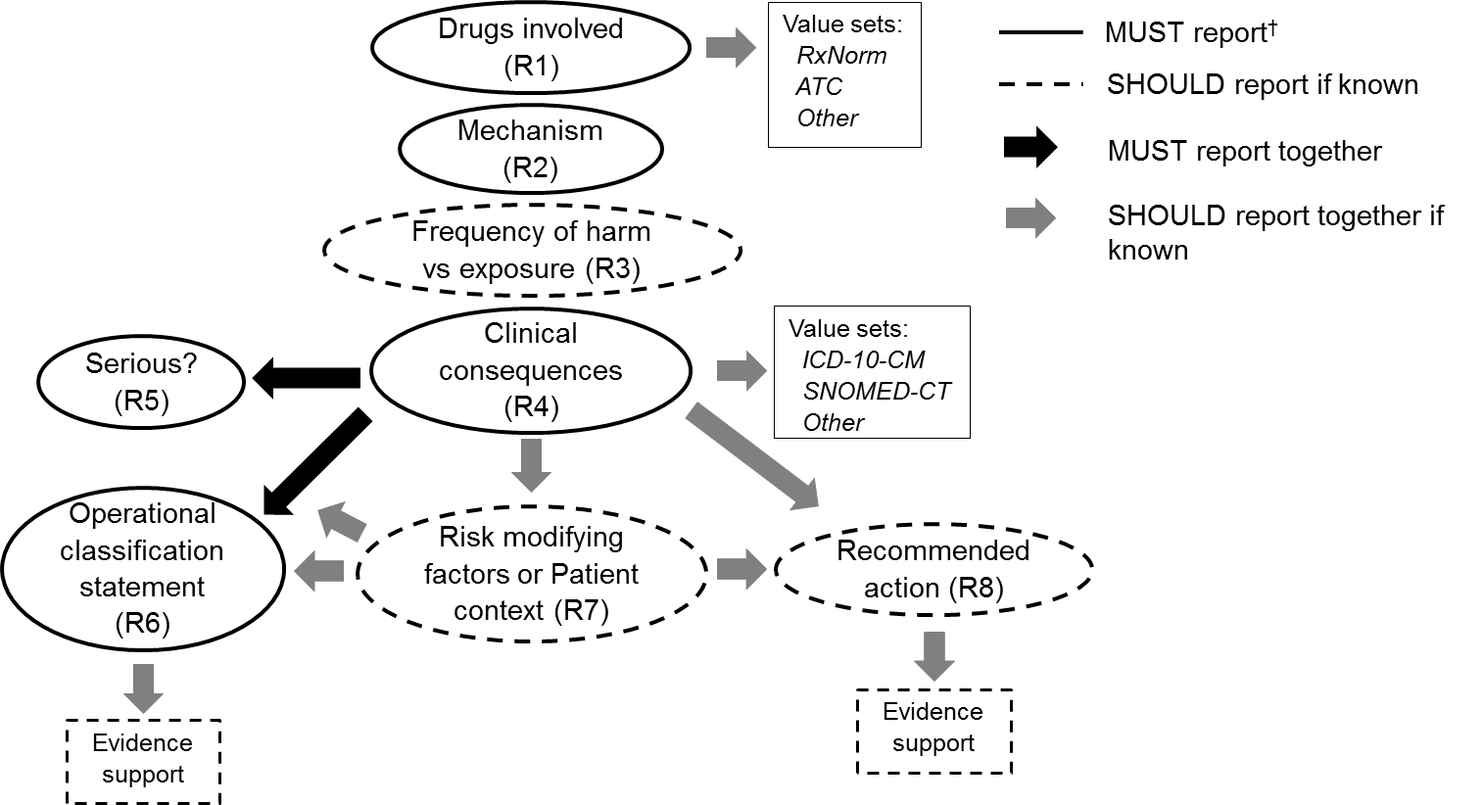
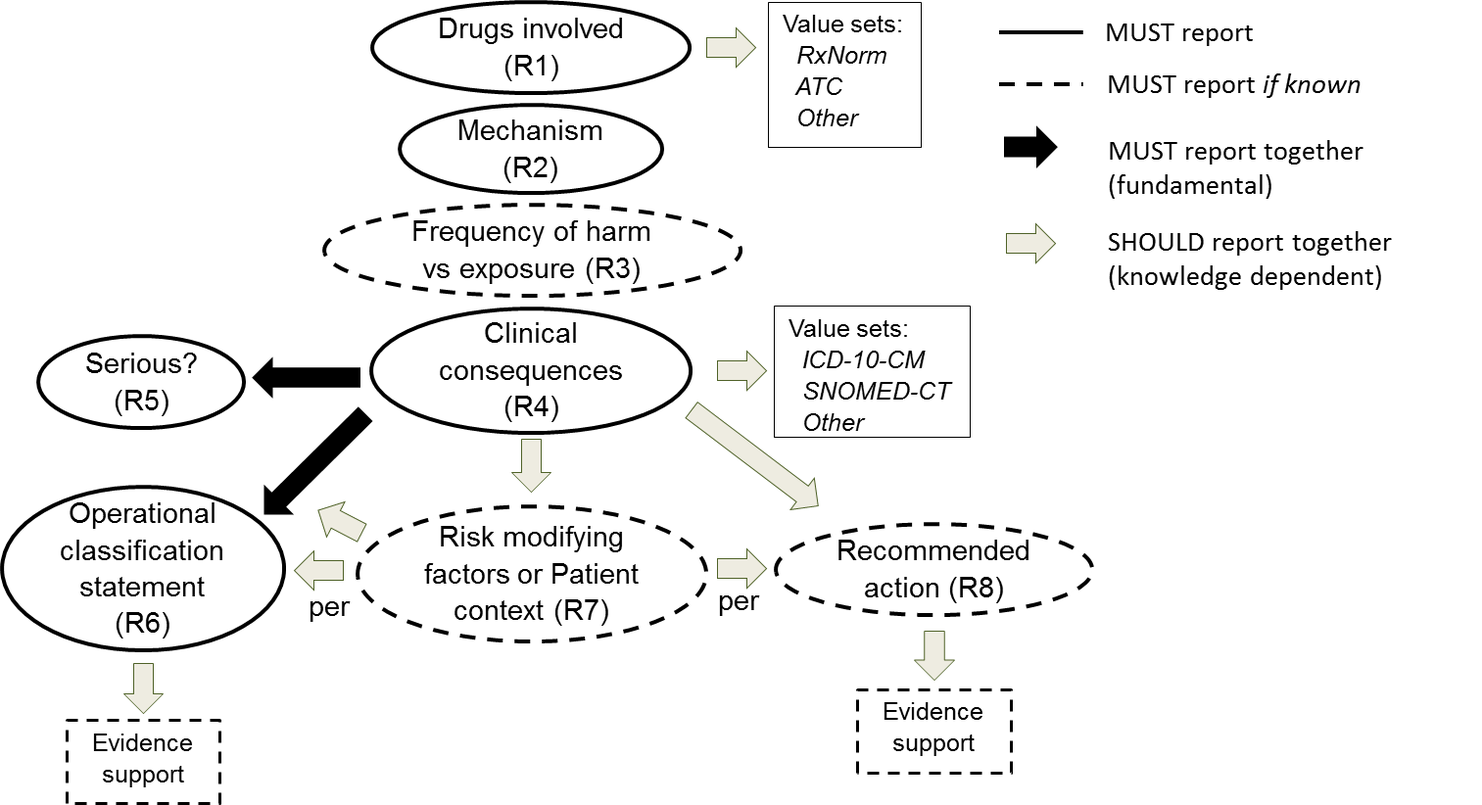
addressing comments on the penultimate draft

diff --git a/index.html b/index.html
@@ -1211,19 +1211,19 @@
   <h2>A summary of recommendations related to the minimum information model</h2>
 
   <p>
-    This section summarizes the Community Group's recommendations related to the minimum information model. <a href="#PDDI-MI-APPLICATIONS"></a> shows an overview of the recommendations and how they related to one another. A brief summary of each recommendation is provided below the figure. Each recommendation summary uses capitalized keywords (MUST, MUST NOT, REQUIRED, SHALL, SHALL NOT, SHOULD, SHOULD NOT, RECOMMENDED, MAY, AND OPTIONAL) defined in RFC 2119 [[RFC2119]]. Two examples of applying the recommendations to PDDIs are provided in <a href="#examples"></a>.  
+    This section summarizes the Community Group's recommendations related to the minimum information model. <a href="#recommended-approaches"></a> shows an overview of the recommendations and how they related to one another. A brief summary of each recommendation is provided below the figure. Each recommendation summary uses capitalized keywords (MUST, MUST NOT, REQUIRED, SHALL, SHALL NOT, SHOULD, SHOULD NOT, RECOMMENDED, MAY, AND OPTIONAL) defined in RFC 2119 [[RFC2119]]. Two examples of applying the recommendations to PDDIs are provided in <a href="#examples"></a>.  
   </p>
 
   <figure id="recommended-approaches">
       <img src="W3C-Images/recommendations-overview.png"
 	   width"1152">
-      <figcaption>An visual overview of the 8 recommendations that are labeled R1 to R8 in the paragraphs below. Note that the bubbles are ordered for simpler visual presentation and not meant to suggest an editorial workflow. The figure indicates strong recommendations using bubbles with solid lines and optional recommendations using bubbles with dashed lines. Boxes indicate entities discussed in the recommendations such as value sets and evidence support. Arrows indicate relationships between information items and entities discussed in the recommendations. Black arrows indicate information items or entities that MUST be reported together while gray arrows indicate items or entities that SHOULD be reported together if known.  &#8224; If the PDDI mechanism is not known, state "not known".
+      <figcaption>An visual overview of the 8 recommendations that are labeled R1 to R8 in the paragraphs below. Note that the bubbles are ordered for simpler visual presentation and not meant to suggest an editorial workflow. The figure indicates fundamental recommendations using bubbles with solid lines and knowledge dependent recommendations using bubbles with dashed lines. Boxes indicate entities discussed in the recommendations such as value sets and evidence support. Arrows indicate relationships between information items and entities discussed in the recommendations. Black arrows indicate fundamental information items or entities that MUST be reported together while gray arrows indicate items or entities that SHOULD be reported together if known.  &#8224; If the PDDI mechanism is not known, state "not known".
     </figure>
 
 
   <div class="issue" data-number="42" title="Discuss implications and alternatives of referring to drugs involved comprehensively rather than specifically">
   <div class="practice" id="bp-drugs-involved">
-    <b><i>R1 - Explicitly state the drugs involved:</b></i> The <a>drugs involved</a> in a PDDI MUST be explicitly stated. To reduce ambiguity and support a computable representation of the PDDI, the drugs involved SHOULD be listed as sets of terms from a terminology such as <a href="https://www.nlm.nih.gov/research/umls/rxnorm/" target="new">RxNorm</a> or the <a href="https://www.whocc.no/atc/structure_and_principles/" target="new">Anatomical Therapeutic Chemical Classification System (ATC)</a>. Such so called <i>value sets</i> MAY be referenced by a <i>drug concept set identifier</i> (<a target="new" href="http://purl.obolibrary.org/obo/DIDEO_00000128">http://purl.obolibrary.org/obo/DIDEO_00000128</a>) such as a URI to a public repository such as the <a href="https://vsac.nlm.nih.gov/" target="new">Value Set Authority Center</a> that is maintained by the <a href="https://www.nlm.nih.gov/" target="new">United States National Library of Medicine</a>. The implementer MAY choose any terminology they think appropriate. To promote broader accessibility to PDDI knowledge, it is RECOMMENDED that the chosen terminology be one that is actively maintained and freely accessible to the public.
+    <b><i>R1 - Explicitly state the drugs involved:</b></i> The <a>drugs involved</a> in a PDDI MUST be explicitly stated. To reduce ambiguity and support a computable representation of the PDDI, the drugs involved SHOULD be listed as sets of terms from a terminology such as <a href="https://www.nlm.nih.gov/research/umls/rxnorm/" target="new">RxNorm</a> or the <a href="https://www.whocc.no/atc/structure_and_principles/" target="new">Anatomical Therapeutic Chemical Classification System (ATC)</a>. Such so called <i>value sets</i> MAY be referenced by a <i>drug concept set identifier</i> (<a target="new" href="http://purl.obolibrary.org/obo/DIDEO_00000128">http://purl.obolibrary.org/obo/DIDEO_00000128</a>) such as a URI to a public repository such as the <a href="https://vsac.nlm.nih.gov/" target="new">Value Set Authority Center</a> that is maintained by the <a href="https://www.nlm.nih.gov/" target="new">United States National Library of Medicine</a>. The implementer MAY choose any terminology they think appropriate. To promote broader accessibility to PDDI knowledge, the implementer SHOULD use a terminology that is actively maintained and freely accessible to the public.
   </div>
   </div>
     
@@ -1232,12 +1232,12 @@
   </div>
 
   <div class="practice" id="bp-freq-exp">
-    <b><i>R3 - State the frequency of harm relative to frequency of exposure if known:</b></i> Information about the <a>frequency of harm</a> of exposure to a PDDI relative to <a>frequency of exposure</a> and is rarely available. If such information is available, it can help a clinician assess the risk/benefit trade-off of exposure to PDDI. Therefore, such information SHOULD be provided if available and considered reliable. It is RECOMMENDED that, wherever possible, each frequency of harm and frequency of exposure datum refer to a specific source in the form of a citation. If such information is not available, it is RECOMMENDED that an explicit statement declaring this fact be provided.
+    <b><i>R3 - State the frequency of harm relative to frequency of exposure if known:</b></i> Information about the <a>frequency of harm</a> of exposure to a PDDI relative to <a>frequency of exposure</a> and is rarely available. If such information is available, it can help a clinician assess the risk/benefit trade-off of exposure to PDDI. Therefore, if such information is not available, an explicit statement declaring this fact MUST be provided. However, if such information is available and considered reliable, it MUST be provided. Wherever possible, each frequency of harm and frequency of exposure datum SHOULD refer to a specific source in the form of a citation. 
   </div>
 
   
   <div class="practice" id="bp-clinical-consequences">
-    <b><i>R4 - Explicitly state clinical consequences:</b></i> The <a>clinical consequences</a> associated with a PDDI MUST be reported if known. Clinical consequences SHOULD refer health outcomes as specifically as possible. To reduce ambiguity and support a computable representation of the PDDI, clinical consequences SHOULD be represented as one or more sets of terms from a terminology such as <a href="http://www.who.int/classifications/icd/en/" target="new">ICD-10</a> or <a href="https://www.snomed.org/snomed-ct" target="new">SNOMED-CT</a>. Such so called <i>value sets</i> MAY be referenced by a URI to a public repository such as the <a href="https://vsac.nlm.nih.gov/" target="new">Value Set Authority Center</a> that is maintained by the <a href="https://www.nlm.nih.gov/" target="new">United States National Library of Medicine</a>. The implementer MAY choose any terminology they think appropriate. To promote broader accessibility to PDDI knowledge, it is RECOMMENDED that the chosen terminology be one that is actively maintained and freely accessible to the public. 
+    <b><i>R4 - Explicitly state clinical consequences:</b></i> The <a>clinical consequences</a> associated with a PDDI MUST be reported if known. Clinical consequences MUST refer health outcomes as specifically as possible. To reduce ambiguity and support a computable representation of the PDDI, clinical consequences SHOULD be represented as one or more sets of terms from a terminology such as <a href="http://www.who.int/classifications/icd/en/" target="new">ICD-10</a> or <a href="https://www.snomed.org/snomed-ct" target="new">SNOMED-CT</a>. Such so called <i>value sets</i> MAY be referenced by a URI to a public repository such as the <a href="https://vsac.nlm.nih.gov/" target="new">Value Set Authority Center</a> that is maintained by the <a href="https://www.nlm.nih.gov/" target="new">United States National Library of Medicine</a>. The implementer MAY choose any terminology they think appropriate. To promote broader accessibility to PDDI knowledge, the implementer SHOULD use a terminology that is actively maintained and freely accessible to the public. 
   </div>
 
   <div class="practice" id="bp-serious">
@@ -1245,21 +1245,17 @@
   </div>
 
   <div class="practice" id="bp-operational-classification">
-    <b><i>R6 - Include an operational classification statement:</b></i> A PDDI MUST report at least one <a>operational classification statement</a>. The description MAY include one or more operational classification statements as long as each statement depends on a single set of <a>contextual information/modifying factors</a>. In this case, the  operational classification statements SHOULD be mentioned where the specific contextual information/modifying factors are discussed. While implementers MAY use any system that provides clear operational classification statements, the use of the OpeRational ClassificAtion of Drug Interactions [hansten-2001] is RECOMMENDED. 
+    <b><i>R6 - Include an operational classification statement:</b></i> A PDDI MUST report at least one <a>operational classification statement</a>. The description MAY include more than one operational classification statements as long as each statement depends on a single set of <a>contextual information/modifying factors</a>. If there is more than one operational classification statement, each operational classification statement MUST be mentioned along with the specific contextual information/modifying factor that applies to the situation. While implementers MAY use any system that provides clear operational classification statements, the use of the OpeRational ClassificAtion of Drug Interactions [hansten-2001] is RECOMMENDED. 
   </div>
 
 
   <div class="practice" id="bp-contextual">
     <b><i>R7 - State each known risk modifying factor or patient context:</b></i> <a>Contextual information/modifying factors</a> are necessary for alerts that
-    are both sensitive and specific. Like clinical consequences, each known factor SHOULD be
-    stated as specifically as possible. The factors SHOULD be amenable to implementation as executable
-    logic using value sets from clinical terminologies such as <a href="https://www.nlm.nih.gov/research/umls/rxnorm/" target="new">RxNorm</a>, the
-    <a href="https://www.whocc.no/atc/structure_and_principles/" target="new">Anatomical Therapeutic Chemical Classification System (ATC)</a>, <a href="http://www.who.int/classifications/icd/en/" target="new">ICD-10</a>, and <a href="https://www.snomed.org/snomed-ct" target="new">SNOMED-CT</a>. As is used in this
-    example, each factor SHOULD be related to a specific <a>operational classification statement</a> that is supported by the <a>evidence about a suspected drug-drug interaction</a>. It is RECOMMENDED that, wherever possible, each evidence statement refer to a specific source in the form of a citation.
+    are both sensitive and specific. Like clinical consequences, each known factor MUST be stated as specifically as possible. The factors SHOULD be amenable to implementation as executable logic using value sets from clinical terminologies such as <a href="https://www.nlm.nih.gov/research/umls/rxnorm/" target="new">RxNorm</a>, the <a href="https://www.whocc.no/atc/structure_and_principles/" target="new">Anatomical Therapeutic Chemical Classification System (ATC)</a>, <a href="http://www.who.int/classifications/icd/en/" target="new">ICD-10</a>, and <a href="https://www.snomed.org/snomed-ct" target="new">SNOMED-CT</a>. Each factor SHOULD be related to a specific <a>operational classification statement</a> that is supported by the <a>evidence about a suspected drug-drug interaction</a>. Wherever possible, each evidence statement SHOULD refer to a specific source in the form of a citation.
   </div>
 
   <div class="practice" id="bp-recommended-action">
-    <b><i>R8 - State a recommended action if one is known:</b></i> If known, a <a>recommended action</a> SHOULD be stated using clear and concise language. Any recommended actions that apply to all patient exposures SHOULD be stated using clear and concise language. It is RECOMMENDED that each recommended action statement provide citations to <a>evidence about a suspected drug-drug interaction</a> (not provided in this example). Recommendations that depend on specific <a>contextual information/modifying factors</a> SHOULD be mentioned so as to support a context-specific presentation of such information.
+    <b><i>R8 - State a recommended action if one is known:</b></i> If known, a <a>recommended action</a> MUST be stated. Any recommended actions that apply to all patient exposures MUST be stated. It is desirable that each recommended action is written in clear and concise language. Each recommended action statement SHOULD provide citations to <a>evidence about a suspected drug-drug interaction</a> (not provided in this example). Recommendations that depend on specific <a>contextual information/modifying factors</a> SHOULD be mentioned so as to support a context-specific presentation of such information.
   </div>
 
 
@@ -1405,7 +1401,8 @@
       </tr>
       <tr>
 	<td>
-	  <strong>Comment:</strong> Per the recommendation <a href="#bp-drugs-involved">R1 - Explicitly state the drugs involved</a>, value sets for warfarin and NSAIDs are explicitly enumerated. As Appendix <a href=#intro-to-value-sets></a> mentions, this <i>extensional definition</i> is one approach to declaring value sets. It is also possible to define an algorithm that, when executed by a machine (or interpreted by a human), yields a set of such elements. Such a <i>intensional definition</i> is also an acceptable approach to declaring the drugs involved. </td> 
+	  <strong>Comment:</strong> Per the recommendation <a href="#bp-drugs-involved">R1 - Explicitly state the drugs involved</a>, value sets for warfarin and NSAIDs are explicitly enumerated. This example states NSAIDs generally and then refers to specific NSAID formulations in Contextual information/modifying factors (since the interaction is only relevant for bioavailable forms). A reasonable alternative approach would have been to create two PDDI knowledge artifacts - one that refers to "warfarin - systemic NSAIDs", and the other referring to "warfarin - non-systemic NSAIDs." Also, this example explicitly lists the drugs involved. As Appendix <a href=#intro-to-value-sets></a> mentions, this <i>extensional definition</i> is one approach to declaring value sets. It is also possible to define an algorithm that, when executed by a machine (or interpreted by a human), yields a set of such elements. Such a <i>intensional definition</i> is also an acceptable approach to declaring the drugs involved. 
+	</td> 
       </tr>
     </table>
     <table>
@@ -1454,7 +1451,7 @@
 	<td style="background-color: #f4fff2"><a>Operational Classification Statement</a>: Depending on the patient context, there are different operational classification statements for the warfarin-NSAIDs PDDI. See the <a href="#warfarin-specific-context">contextual information/modifying factors for this interaction</a>.</td>
       </tr>
       <tr>
-	<td><strong>Comment:</strong> Per recommendation <a href="#bp-operational-classification">R6 - Include an operational classification statement</a>, the PDDI description includes one or more <a>operational classification statements</a>. Because there is multiple <a>contextual information/modifying factors</a>, no single general operational classification statement can be mentioned. Rather, an operational classification statement is provided for each factor. </td>
+	<td><strong>Comment:</strong> Per recommendation <a href="#bp-operational-classification">R6 - Include an operational classification statement</a>, the PDDI description includes more than one <a>operational classification statements</a>. Because there is multiple <a>contextual information/modifying factors</a>, no single general operational classification statement can be mentioned. Rather, an operational classification statement is provided for each factor. </td>
       </tr>
     </table>
 </div>
@@ -1463,22 +1460,19 @@
   <tr>
     <td style="background-color: #f4fff2"><a>Contextual information/modifying factors</a>:
       <ol>
-        <li>The <a href="#NSAIDS-drugs">NSAIDs</a> is <a href="#topical-diclof">topical diclofenac</a></li>
+        <li>The <a href="#NSAIDS-drugs">NSAID</a> is <a href="#topical-diclof">topical or opthalmic diclofenac</a></li>
         <ul>
           <li><strong>Operational Classification Statement:</strong> No special precautions</li>
-          <li><strong>Evidence About a Suspected Drug-Drug Interaction:</strong> <a href="#topical-diclof">Topical diclofenac</a> has relatively
-	    low systemic absorption; in one study a topical gel (16 g/day) produced about 6% of
-	    the absorption seen with systemic administration of 150 mg/day. A higher than recommended
-	    dose of topical gel (48 g/day) produced 20% of a systemic dose of diclofenac.</li>
+          <li><strong>Evidence About a Suspected Drug-Drug Interaction:</strong> <a href="#topical-diclof">Both topical and opthalmic formulations of diclofenac</a> have relatively low systemic absorption; in one study a topical gel (16 g/day) produced about 6% of the absorption seen with systemic administration of 150 mg/day. A higher than recommended dose of topical gel (48 g/day) produced 20% of a systemic dose of diclofenac. The UK Summary of Product Characteristics for Voltarol Ophtha Multidose Eye Drops states, "No measurable levels of diclofenac could be found in humans after ocular application of diclofenac sodium eye drops". The FDA-approved SPL for Diclofenac Sodium Ophthalmic Solution 0.1% states, "Results from a bioavailability study established that plasma levels of diclofenac following ocular instillation of two drops of Diclofenac sodium ophthalmic solution, 0.1% to each eye were below the limit of quantification (10 ng/mL) over a 4-hour period. This study suggests that limited, if any, systemic absorption occurs with Diclofenac sodium ophthalmic solution". </li>
         </ul>
 	<div class="issue" data-number="41" title="Consider modifying the 'NOT topical diclofenac' to include opthalmic formulations">
-        <li>The NSAID is NOT <a href="#topical-diclof">topical diclofenac</a> but the patient is concomitantly taking a
+        <li>The NSAID is NEITHER <a href="#topical-diclof">topical nor opthalmic diclofenac</a> but the patient is concomitantly taking a
           <a href="#proton-pump-inhibitor">proton pump inhibitor</a> or <a href="#misoprostol">misoprostol</a></li>
         <ul>
           <li><strong>Operational Classification Statement:</strong> Assess risk and take action if necessary</li>
           <li><strong>Evidence About a Suspected Drug-Drug Interaction:</strong> <a href="#proton-pump-inhibitor">Proton pump inhibitors</a> and <a href="#misoprostol">misoprostol</a> may reduce the risk of UGIB in patients receiving NSAIDs and warfarin. </li>
         </ul>
-        <li>The NSAID is NOT <a href="#topical-diclof">topical diclofenac</a>, the patient is NOT concomitantly taking a <a href="#proton-pump-inhibitor">proton pump inhibitor</a> or <a href="#misoprostol">misoprostol</a>, and the patient has one or more of the following risk factors:</li>
+        <li>The NSAID is NEITHER <a href="#topical-diclof">topical nor opthalmic diclofenac</a>, the patient is NOT concomitantly taking a <a href="#proton-pump-inhibitor">proton pump inhibitor</a> or <a href="#misoprostol">misoprostol</a>, and the patient has one or more of the following risk factors:</li>
         <ul>
           <li>History of <a href="#gi-bleeding">upper gastrointestinal bleeding (UGIB) or peptic ulcer</a> or age > 65 years old</li>
       <ul>
@@ -1531,7 +1525,7 @@
       <td style="background-color: #f4fff2"><emph>Drugs involved</emph>: <a href="#TKIs">Tyrosine Kinase Inhibitors (TKIs)</a> and <a href="#proton-pump-inhibitor-atc">Proton Pump Inhibitors (PPIs)</a></td>
     </tr>
     <tr>
-      <td><strong>Comment:</strong> Per the recommendation <a href="#bp-drugs-involved">R1 - Explicitly state the drugs involved</a>, value sets for TKIs and PPIs are provided. Note that in the <a href="#ex-warfarin-nsaids">warfarin-NSAIDs example</a> the drugs involved are specified using RxNorm while this example uses ATC. This is to emphasize that, while the drugs involved SHOULD be listed as sets of terms from a terminology such as <a href="https://www.nlm.nih.gov/research/umls/rxnorm/" target="new">RxNorm</a> or the <a href="https://www.whocc.no/atc/structure_and_principles/" target="new">Anatomical Therapeutic Chemical Classification System (ATC)</a>, the implementer MAY choose any terminology they think appropriate. To promote broader accessibility to PDDI knowledge, it is RECOMMENDED that the chosen terminology be one that is actively maintained and freely accessible to the public.</td>
+      <td><strong>Comment:</strong> Per the recommendation <a href="#bp-drugs-involved">R1 - Explicitly state the drugs involved</a>, value sets for TKIs and PPIs are provided. Note that in the <a href="#ex-warfarin-nsaids">warfarin-NSAIDs example</a> the drugs involved are specified using RxNorm while this example uses ATC. This is to emphasize that, while the drugs involved SHOULD be listed as sets of terms from a terminology such as <a href="https://www.nlm.nih.gov/research/umls/rxnorm/" target="new">RxNorm</a> or the <a href="https://www.whocc.no/atc/structure_and_principles/" target="new">Anatomical Therapeutic Chemical Classification System (ATC)</a>, the implementer MAY choose any terminology they think appropriate. To promote broader accessibility to PDDI knowledge, implementer SHOULD use a terminology that is actively maintained and freely accessible to the public.</td>
     </tr>
   </table>
     <table>
@@ -1559,7 +1553,7 @@
       <td style="background-color: #f4fff2"><strong>Clinical Consequences:</strong> Decreased efficacy relative to treatment for <a href="#acml">chronic myeloid leukemia</a></td>
     </tr>
     <tr>
-      <td><strong>Comment:</strong> Per the recommendation <a href="#bp-clinical-consequences">R4 - Explicitly state clinical consequences</a>, a value set for the clinical consequence is explicitly enumerated. Note that in the <a href="#ex-warfarin-nsaids">warfarin-NSAIDs example</a>, the clinical consequences involved are specified using <a href="http://www.who.int/classifications/icd/en/" target="new">ICD-10</a> while this example uses <a href="https://www.snomed.org/snomed-ct" target="new">SNOMED-CT</a>. This is to emphasize that, while the clinical consequences  SHOULD be listed as sets of terms from a terminology such as ICD-10 or SNOMED-CT, the implementer MAY choose any terminology they think appropriate. To promote broader accessibility to PDDI knowledge, it is RECOMMENDED that the chosen terminology be one that is actively maintained and freely accessible to the public.</td>
+      <td><strong>Comment:</strong> Per the recommendation <a href="#bp-clinical-consequences">R4 - Explicitly state clinical consequences</a>, a value set for the clinical consequence is explicitly enumerated. Note that in the <a href="#ex-warfarin-nsaids">warfarin-NSAIDs example</a>, the clinical consequences involved are specified using <a href="http://www.who.int/classifications/icd/en/" target="new">ICD-10</a> while this example uses <a href="https://www.snomed.org/snomed-ct" target="new">SNOMED-CT</a>. This is to emphasize that, while the clinical consequences  SHOULD be listed as sets of terms from a terminology such as ICD-10 or SNOMED-CT, the implementer MAY choose any terminology they think appropriate. To promote broader accessibility to PDDI knowledge, implementers SHOULD use a terminology that is actively maintained and freely accessible to the public.</td>
     </tr>
   </table>
 
@@ -2283,7 +2277,7 @@
     gastrointestinal bleeding (UGIB).
   </p>
   <figure id="Warfarin-NSAID-TREE">
-    <img src="W3C-Images/Warfarin-NSAID-TREE.png">
+    <img src="W3C-Images/Warfarin-NSAID-TREE-opthalmic-addition.png">
     <figcaption> <span style="color: #30d529">¢</span> = No special precautions.
       <span style="color: #f9bd3b">n</span> = Assess risk and take action if necessary.
       <span style="color: #fb0082">u</span> = Use only if benefit
@@ -2295,7 +2289,7 @@
 
 <p style="text-align: left"><strong>Footnotes:</strong></p>
 <ol type="1">
-  <li style="text-align: left">Topical diclofenac has relatively low systemic absorption; in one study a topical gel (16 g/day) produced about 6% of the absorption seen with systemic administration of 150 mg/day. A higher than recommended dose of topical gel (48 g/day) produced 20% of a systemic dose of diclofenac.</li>
+  <li style="text-align: left">Topical diclofenac has relatively low systemic absorption; in one study a topical gel (16 g/day) produced about 6% of the absorption seen with systemic administration of 150 mg/day. A higher than recommended dose of topical gel (48 g/day) produced 20% of a systemic dose of diclofenac. The UK Summary of Product Characteristics for Voltarol Ophtha Multidose Eye Drops states, "No measurable levels of diclofenac could be found in humans after ocular application of diclofenac sodium eye drops". The FDA-approved SPL for Diclofenac Sodium Ophthalmic Solution 0.1% states, "Results from a bioavailability study established that plasma levels of diclofenac following ocular instillation of two drops of Diclofenac sodium ophthalmic solution, 0.1% to each eye were below the limit of quantification (10 ng/mL) over a 4-hour period. This study suggests that limited, if any, systemic absorption occurs with Diclofenac sodium ophthalmic solution". </li>
   <li style="text-align: left">If the NSAID is being used as an analgesic or antipyretic, it would be prudent to use an alternative such as acetaminophen. In some people, acetaminophen can increase the anticoagulant effect of warfarin, so monitor the INR if acetaminophen is used in doses over 2 g/day for a few days. For more severe pain consider short-term opioids in place of the NSAID.</li>
   <li style="text-align: left">Proton pump inhibitors and misoprostol may reduce the risk of UGIB in patients receiving NSAIDs and warfarin.</li>
   <li style="text-align: left">Patients with a history of UGIB or peptic ulcer may have an increased risk of UGIB from this interaction. The extent to which older age is an independent risk factor for UGIB due to these interactions is not firmly established, but UGIB in general is known to increase with age.</li>
@@ -3224,9 +3218,10 @@
 
   
   <section id="topical-diclof">
-    <h2>topical diclofenac (RxNorm)</h2>
+    <h2>topical or opthlamic diclofenac (RxNorm)</h2>
     <pre>
       1234735 - diclofenac epolamine 0.0129 MG/MG Topical Gel
+      854801 - Diclofenac Sodium Ophthalmic Solution
     </pre>	    
   </section>
 
@@ -3445,7 +3440,7 @@
     "expressionLogic": "human readable",
     "members": [
       {
-        "display": "The NSAID is topical diclofenac",
+        "display": "The NSAID is topical or opthalmic diclofenac",
         "operational classification statement": {
           "type": "MPIO_0000111",
           "display": "No special precautions."
@@ -3458,7 +3453,7 @@
           {
             "type": "TextQuoteSelector",
             "attribute": "display",
-            "exact": "topical diclofenac",
+            "exact": "topical or opthalmic diclofenac",
             "body": {
               "type": "SemanticTag",
               "value": "484ef188-5765-408d-b8c3-f2f38ae8066c"
@@ -3480,7 +3475,7 @@
           {
             "type": "TextQuoteSelector",
             "attribute": "display",
-            "exact": "topical diclofenac",
+            "exact": "topical or opthalmic diclofenac",
             "body": {
               "type": "SemanticTag",
               "value": "484ef188-5765-408d-b8c3-f2f38ae8066c"
@@ -3521,7 +3516,7 @@
           {
             "type": "TextQuoteSelector",
             "attribute": "display",
-            "exact": "topical diclofenac",
+            "exact": "topical or opthalmic diclofenac",
             "body": {
               "type": "SemanticTag",
               "value": "484ef188-5765-408d-b8c3-f2f38ae8066c"
@@ -3626,7 +3621,7 @@
           {
             "type": "TextQuoteSelector",
             "attribute": "display",
-            "exact": "topical diclofenac",
+            "exact": "topical or opthalmic diclofenac",
             "body": {
               "type": "SemanticTag",
               "value": "484ef188-5765-408d-b8c3-f2f38ae8066c"
@@ -5250,7 +5245,7 @@
     },
     {
       "id": "484ef188-5765-408d-b8c3-f2f38ae8066c",
-      "display": "topical diclofenac",
+      "display": "topical or opthalmic diclofenac",
       "type": "DIDEO_00000128",
       "system": "http://www.nlm.nih.gov/research/umls/rxnorm",
       "members": [
@@ -5259,7 +5254,13 @@
           "system": "http://www.nlm.nih.gov/research/umls/rxnorm",
           "code": "1234735",
           "display": "diclofenac epolamine 0.0129 MG/MG Topical Gel"
-        }
+         },
+         {
+          "type": "APOLLO_SV_00000461",
+          "system": "http://www.nlm.nih.gov/research/umls/rxnorm",
+          "code": "854801",
+          "display": "Diclofenac Sodium Ophthalmic Solution"
+         }
       ]
     },
     {
